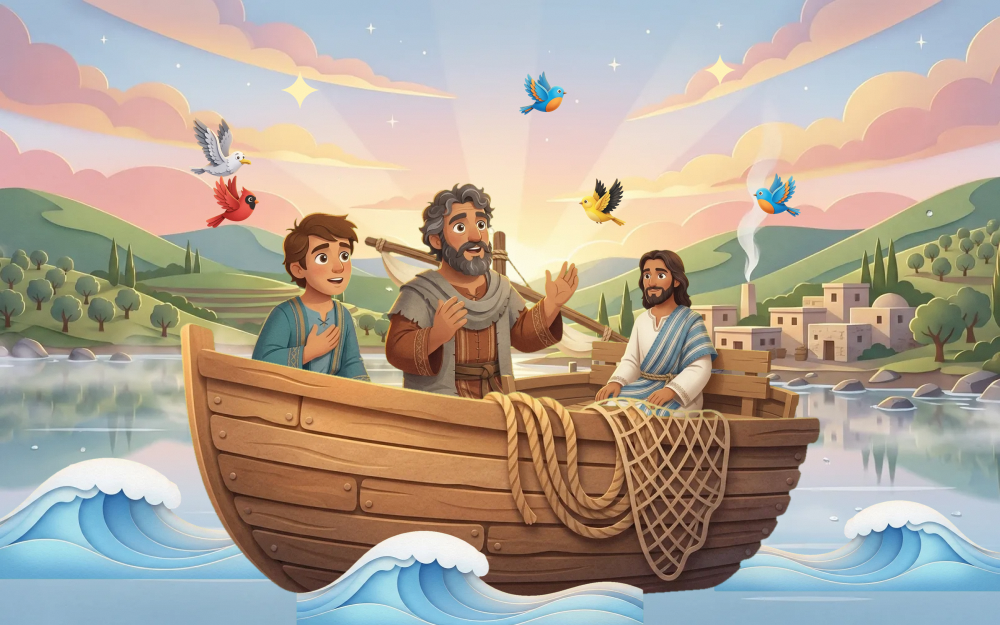
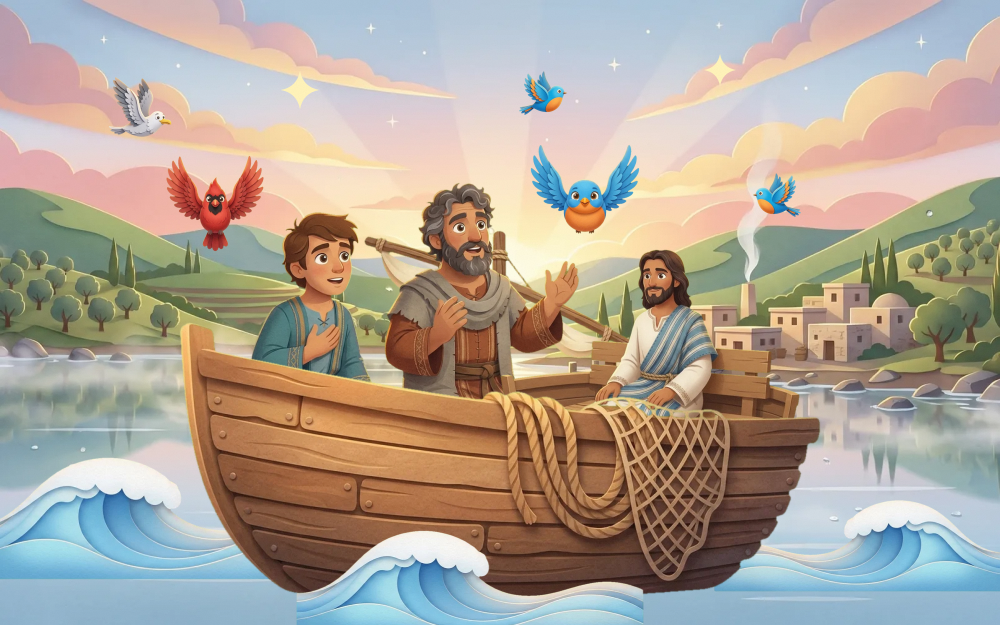
Storm page 5: birds arriving head-on toward the viewer, approach path grows instead of descends
Side-view frames on a descending path read as birds dropping. A
bluebird and a red cardinal now have head-on wings-up and wings-down
frames, shown by a FrontBird flipbook, and the swoop-far path starts as
a speck near the rest point and grows to full size so the bird comes at
the viewer. Gull rest point and hotspot moved clear of the cardinal.

Changed region(s): [[0.093, 0.1216, 0.279, 0.3952], [0.527, 0.2432, 0.651, 0.3952]]

diff --git a/src/scenes/storm.tsx b/src/scenes/storm.tsx
@@ -46,6 +46,10 @@ import redbirdUp from "../assets/scenes/david/shepherd/redbird-up.webp";
 import redbirdDown from "../assets/scenes/david/shepherd/redbird-down.webp";
 import goldfinchUp from "../assets/scenes/david/shepherd/goldfinch-up.webp";
 import goldfinchDown from "../assets/scenes/david/shepherd/goldfinch-down.webp";
+import bluebirdFrontUp from "../assets/scenes/storm/calm/bluebird-front-up.webp";
+import bluebirdFrontDown from "../assets/scenes/storm/calm/bluebird-front-down.webp";
+import redbirdFrontUp from "../assets/scenes/storm/calm/redbird-front-up.webp";
+import redbirdFrontDown from "../assets/scenes/storm/calm/redbird-front-down.webp";
 import calmWave from "../assets/scenes/creation/sky-water/calm-wave.webp";
 import type { SceneArtProps } from "../types";
 
@@ -305,6 +309,49 @@ function SongBird({
       y={y}
       flip={flip}
       motion={motion}
+      delay={delay}
+    />
+  );
+}
+
+/** A bird seen head-on, flying straight at the viewer; frames aligned on the head. */
+function FrontBird({
+  kind,
+  x,
+  y,
+  s,
+  delay,
+}: {
+  kind: "blue" | "red";
+  x: number;
+  y: number;
+  s: number;
+  delay: number;
+}) {
+  const L = calmLayers.cutouts;
+  const up = kind === "blue" ? L["bluebird-front-up"] : L["redbird-front-up"];
+  const down = kind === "blue" ? L["bluebird-front-down"] : L["redbird-front-down"];
+  return (
+    <Flipbook
+      a={{
+        src: kind === "blue" ? bluebirdFrontUp : redbirdFrontUp,
+        w: up.w,
+        h: up.h,
+        ax: up.w * 0.5,
+        ay: up.h * 0.62,
+        s,
+      }}
+      b={{
+        src: kind === "blue" ? bluebirdFrontDown : redbirdFrontDown,
+        w: down.w,
+        h: down.h,
+        ax: down.w * 0.5,
+        ay: down.h * 0.38,
+        s,
+      }}
+      x={x}
+      y={y}
+      motion="a-swoop-far"
       delay={delay}
     />
   );
@@ -611,11 +658,11 @@ export function WhoIsThis({ found }: SceneArtProps) {
   return (
     <>
       <Backdrop src={calmBg} />
-      <Gull x={220} y={150} s={0.2} delay={-9} flip />
+      <Gull x={140} y={110} s={0.2} delay={-9} flip />
       <SongBird kind="blue" x={560} y={88} s={0.2} motion="a-fly" delay={-15} />
       {/* birds arrive toward the men: two from specks over the far hills behind the boat, one from the right */}
-      <SongBird kind="red" x={250} y={198} s={0.24} motion="a-swoop-far" delay={-3} />
-      <SongBird kind="gold" x={585} y={200} s={0.22} motion="a-swoop-far" delay={-11} flip />
+      <FrontBird kind="red" x={215} y={215} s={0.3} delay={-3} />
+      <FrontBird kind="blue" x={585} y={200} s={0.28} delay={-11} />
       <SongBird kind="blue" x={760} y={190} s={0.2} motion="a-swoop-r" delay={-7} flip />
       <Ripple x={160} y={580} scale={0.56} delay={0} />
       <Ripple x={860} y={592} scale={0.42} delay={0} flip />

diff --git a/src/styles/motion.css b/src/styles/motion.css
@@ -431,25 +431,25 @@ svg [class*=" a-"] {
 @keyframes swoop-far {
   0% {
     opacity: 0;
-    transform: translate(40px, -150px) scale(0.1);
+    transform: translate(10px, -40px) scale(0.08);
   }
   10% {
     opacity: 1;
   }
-  70% {
+  72% {
     opacity: 1;
     transform: translate(0, 0) scale(1);
   }
-  84% {
+  86% {
     opacity: 0;
-    transform: translate(-30px, 26px) scale(1.12);
+    transform: translate(-6px, 14px) scale(1.3);
   }
   100% {
     opacity: 0;
-    transform: translate(40px, -150px) scale(0.1);
+    transform: translate(10px, -40px) scale(0.08);
   }
 }
-/* A bird that starts as a speck over the far hills behind the figures and flies out toward them, growing as it comes. */
+/* A bird flying straight at the viewer: a speck over the far hills that grows into a head-on bird beside the figures, then passes. Use front-view frames. */
 .a-swoop-far {
   animation: swoop-far 16s ease-in infinite;
 }

diff --git a/src/data/stories/storm.ts b/src/data/stories/storm.ts
@@ -201,8 +201,8 @@ export const storm: Story = {
       hotspots: [
         {
           id: "gull",
-          x: 22,
-          y: 24,
+          x: 14,
+          y: 18,
           size: 14,
           label: "the seagull",
           reward: "When the storm ended, the birds came back.",

diff --git a/docs/evidence/2026-09-18-storm-story/record.md b/docs/evidence/2026-09-18-storm-story/record.md
@@ -273,3 +273,24 @@ and the disciples from behind."
   the gull cross on `fly`. Rest points sit beside the heads, not on them.
 
 Render `storm-calm.png` and the stills replaced. Calls: 1.
+
+## Review round 8 (owner, 2026-09-19): page 5, birds facing forward
+
+"The birds flying towards should be facing forward. What we have now is
+birds dropping down."
+
+- Side-view frames on a descending path read as falling. Four new frames
+  generated: a bluebird and a red cardinal each seen head-on with wings
+  up and wings down (`calm-*-front-*.json`, 17–23 KB each,
+  `calm-front-birds-on-green.png`). `FrontBird` in `storm.tsx` flips
+  between them on the head anchor.
+- `swoop-far` flattened: the bird now starts as a speck almost at its
+  rest point (40 units higher, scale 0.08) and grows to full size, then
+  passes at 1.3 and fades, so the motion is toward the viewer rather than
+  down. The goldfinch side-view arrival is replaced by the head-on
+  bluebird; the red cardinal arrives head-on at the left; the side-view
+  bluebird still arrives from the right; the gull and another bluebird
+  cross. Gull rest point and hotspot moved to 14 %, 18 % clear of the
+  cardinal. Scene 390 KB.
+
+Render `storm-calm.png` and stills replaced. Calls: 4.
